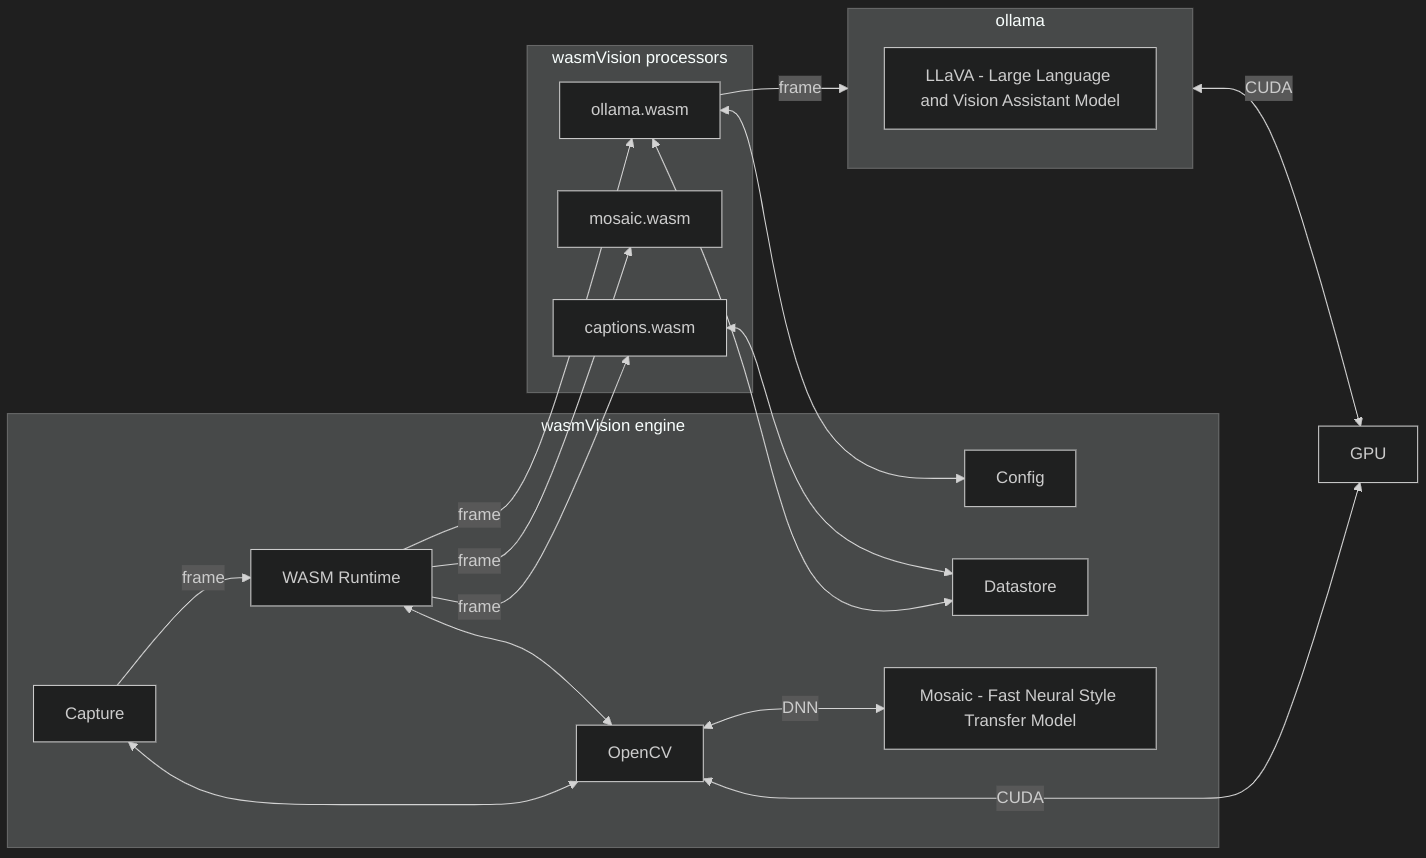
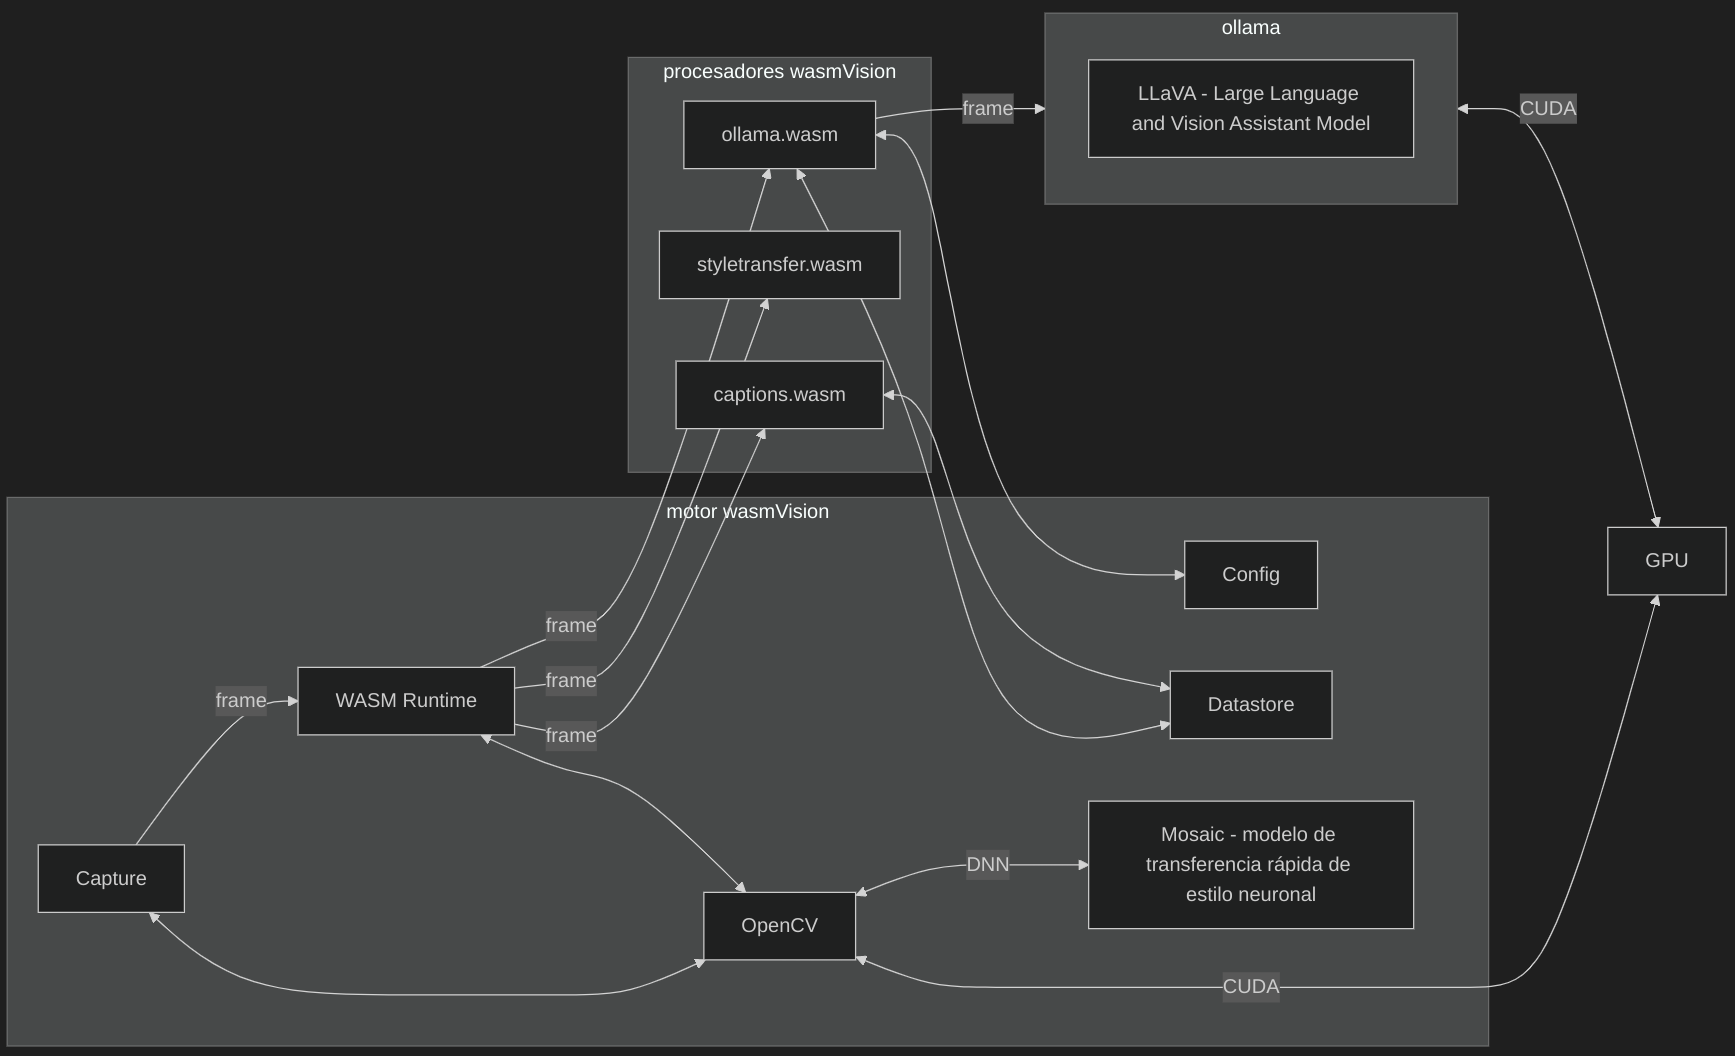
Corrections for latest version

diff --git a/index.html b/index.html
@@ -362,7 +362,7 @@
 
 		<section>
 			<h2>wasmCV Documentación</h2>
-			<h3><a target="_blank" href="https://wasmcv.org/docs/0.7.0/#a-idwasm_cv_mataimport-interface-wasmcvmat">Ver el código</a></h3>
+			<h3><a target="_blank" href="https://wasmcv.org/docs/0.8.1/#a-idwasm_cv_mataimport-interface-wasmcvmat">Ver documentación</a></h3>
 		</section>
 
 		<section>
@@ -543,7 +543,7 @@ cargo build --target wasm32-unknown-unknown --release
 
 		<section>
 			<h2>config.toml</h2>
-			<h3><a target="_blank" href="https://github.com/deadprogram/wasmio2025/blob/main/demo/creativecaptions/config.toml">Ver la configuración</a></h3>
+			<h3><a target="_blank" href="https://github.com/deadprogram/gomad2025/blob/main/demo/creativecaptions/config.toml">Ver la configuración</a></h3>
 		</section>
 
 		<section>
@@ -552,8 +552,8 @@ cargo build --target wasm32-unknown-unknown --release
 		</section>
 
 		<section>
-			<h2>mosaic procesador (Go)</h2>
-			<h3><a target="_blank" href="https://github.com/wasmvision/wasmvision/blob/main/processors/mosaic/mosaic.go">Ver el código</a></h3>
+			<h2>style-transfer procesador (Go)</h2>
+			<h3><a target="_blank" href="https://github.com/wasmvision/wasmvision/blob/main/processors/style-transfer/style-transfer.go">Ver el código</a></h3>
 		</section>
 
 		<section>
@@ -619,7 +619,7 @@ cargo build --target wasm32-unknown-unknown --release
 
 		<section>
 			<h2>config.toml</h2>
-			<h3><a target="_blank" href="https://github.com/deadprogram/wasmio2025/blob/main/demo/videodrone/config.toml">Ver la configuración</a></h3>
+			<h3><a target="_blank" href="https://github.com/deadprogram/gomad2025/blob/main/demo/videodrone/config.toml">Ver la configuración</a></h3>
 		</section>
 
 		<section>
@@ -629,7 +629,7 @@ cargo build --target wasm32-unknown-unknown --release
 
 		<section>
 			<h2>videodrone código</h2>
-			<h3><a target="_blank" href="https://github.com/deadprogram/wasmio2025/blob/main/demo/videodrone/main.go">Ver el código</a></h3>
+			<h3><a target="_blank" href="https://github.com/deadprogram/gomad2025/blob/main/demo/videodrone/main.go">Ver el código</a></h3>
 		</section>
 
 		<section>

diff --git a/diagrams/wasmvision-ollama.md b/diagrams/wasmvision-ollama.md
@@ -1,6 +1,6 @@
 ```mermaid
 flowchart LR
-    subgraph wasmVision engine
+    subgraph motor wasmVision
         Capture
         Runtime[WASM Runtime]
         Capture--frame-->Runtime
@@ -8,11 +8,11 @@ flowchart LR
         Runtime<-->OpenCV
         Config
         Datastore
-        OpenCV<--DNN-->DNN[Mosaic - Fast Neural Style Transfer Model]
+        OpenCV<--DNN-->DNN[Mosaic - modelo de transferencia rápida de estilo neuronal]
     end
-    subgraph wasmVision processors
+    subgraph procesadores wasmVision
         Runtime--frame-->ollama.wasm
-        Runtime--frame-->mosaic.wasm
+        Runtime--frame-->styletransfer.wasm
         Runtime--frame-->captions.wasm
     end
     ollama.wasm--frame-->ollama
